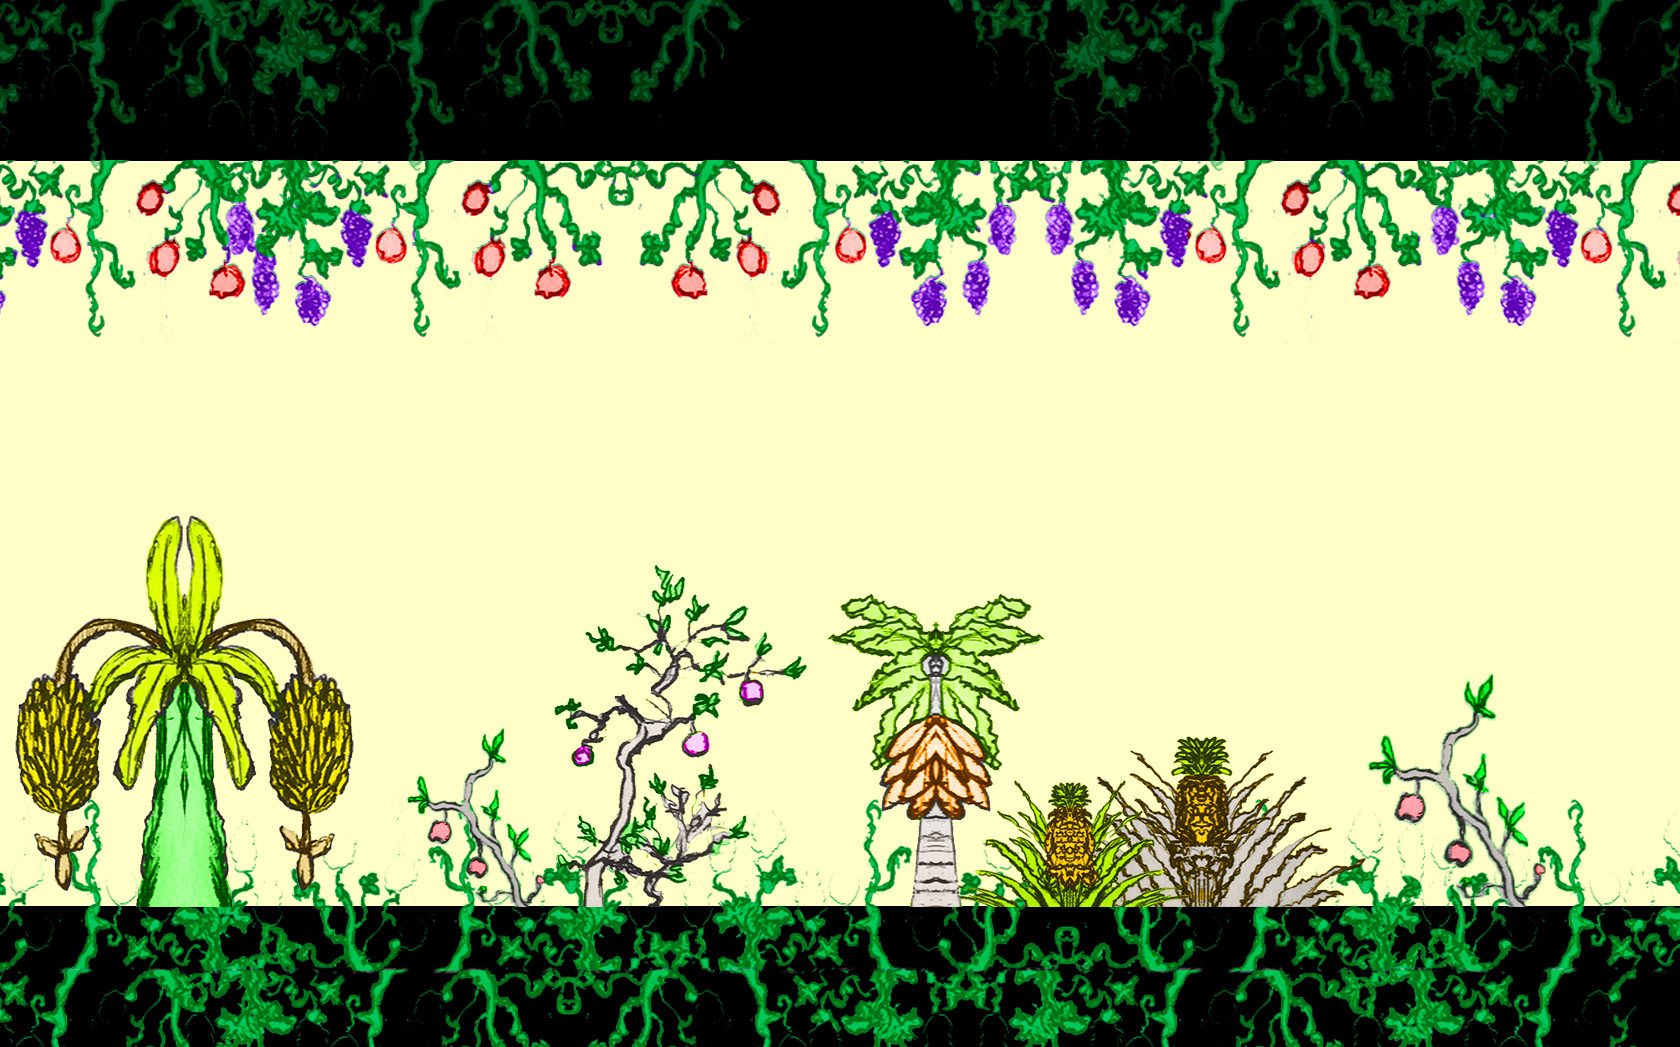
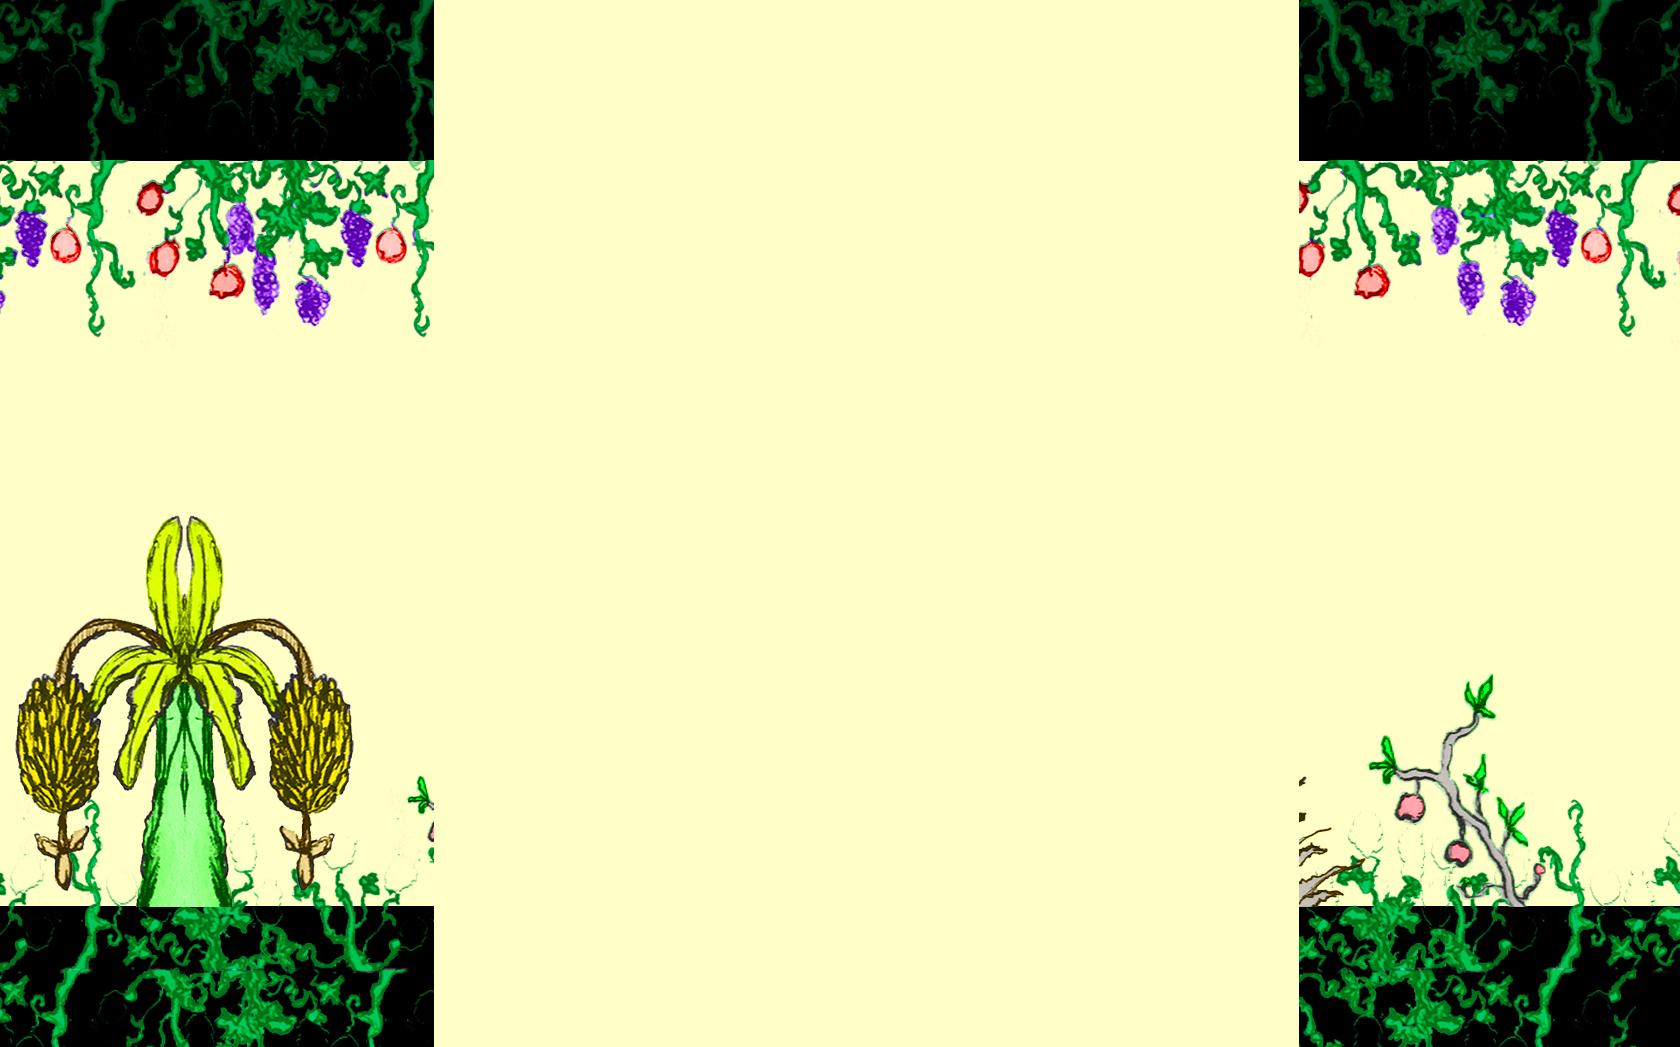
new background for map page

Changed region(s): [[0.2476, 0.5501, 0.7738, 1.0], [0.2476, 0.0, 0.7738, 0.3362]]

diff --git a/public/styles/map.css b/public/styles/map.css
@@ -14,9 +14,9 @@
   }
   
   body {
-    background-image:url("./backgrounds/fruitbackground.jpg");
+    /* background-image:url("./backgrounds/fruitbackground.jpg"); */
     /* background-image:url("https://wallimpex.com/data/out/673/bohemian-backgrounds-10270975.jpg"); */
-    /* background-color: rgb(253, 243, 224); */
+    background-color: rgb(253, 243, 224);
     /* min-height: 100%; *
     /* min-width: 100%; */
     border: 6px double rgb(88, 34, 34);
@@ -24,6 +24,10 @@
     
   }
   
+.right-panel{
+  margin-bottom: 0%
+}
+
   .headerText {
     font-family: orangejuice;
     color: rgb(243, 130, 1);
